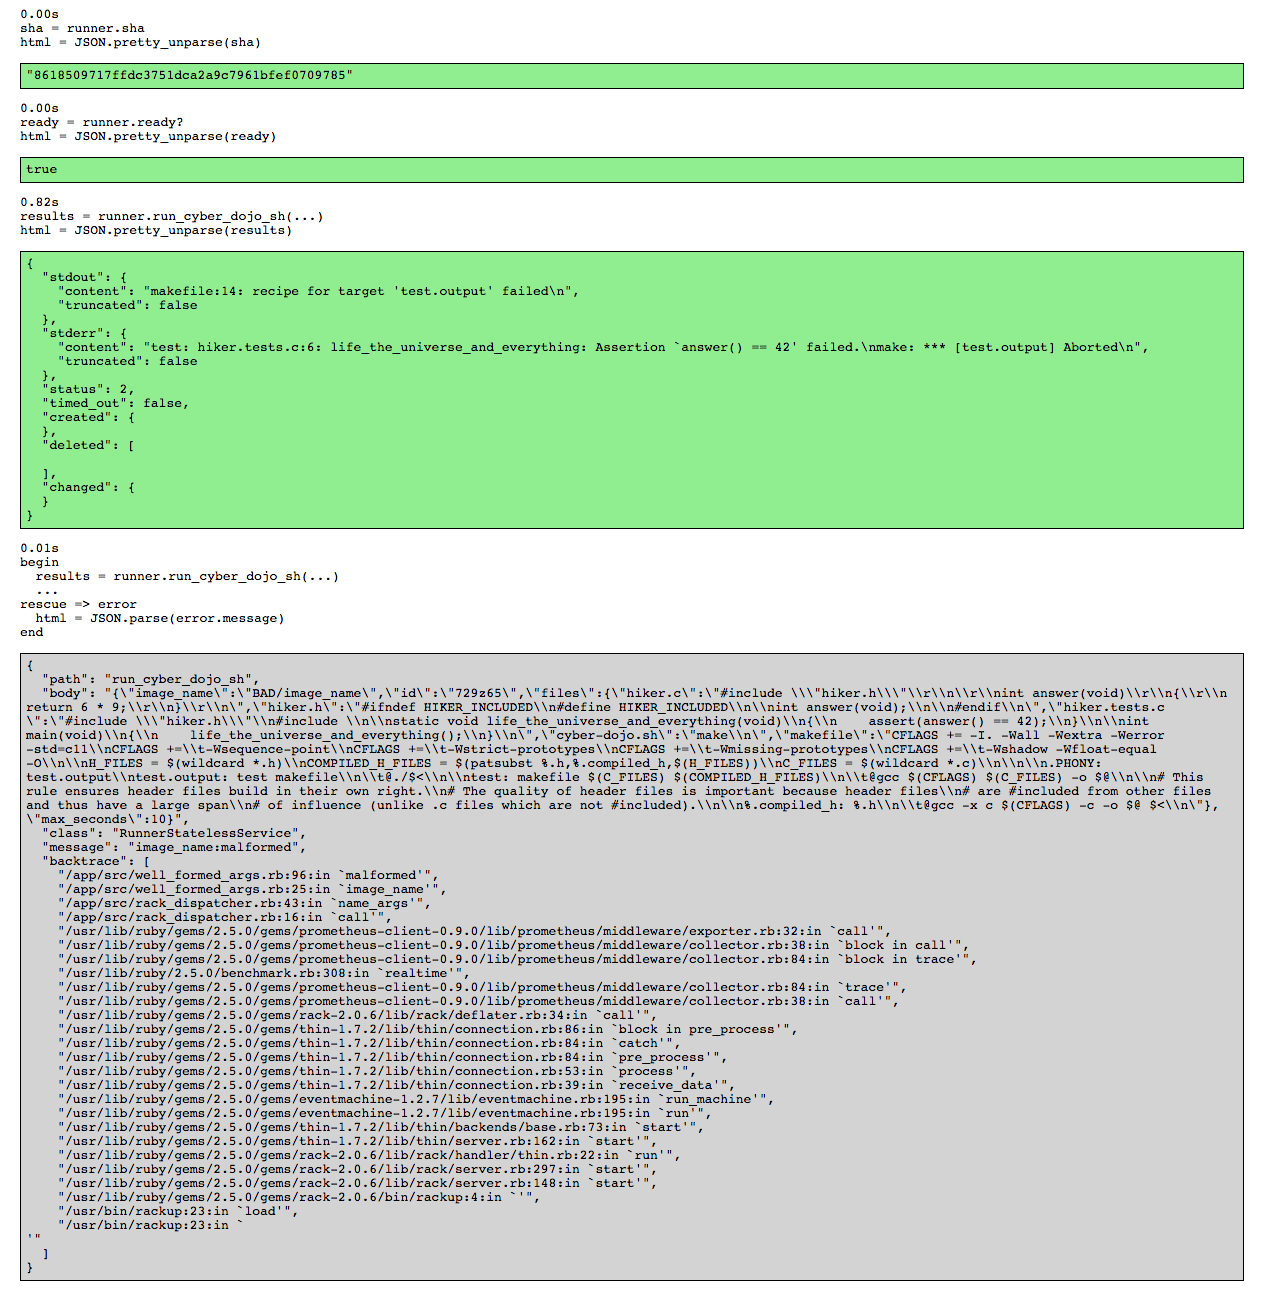
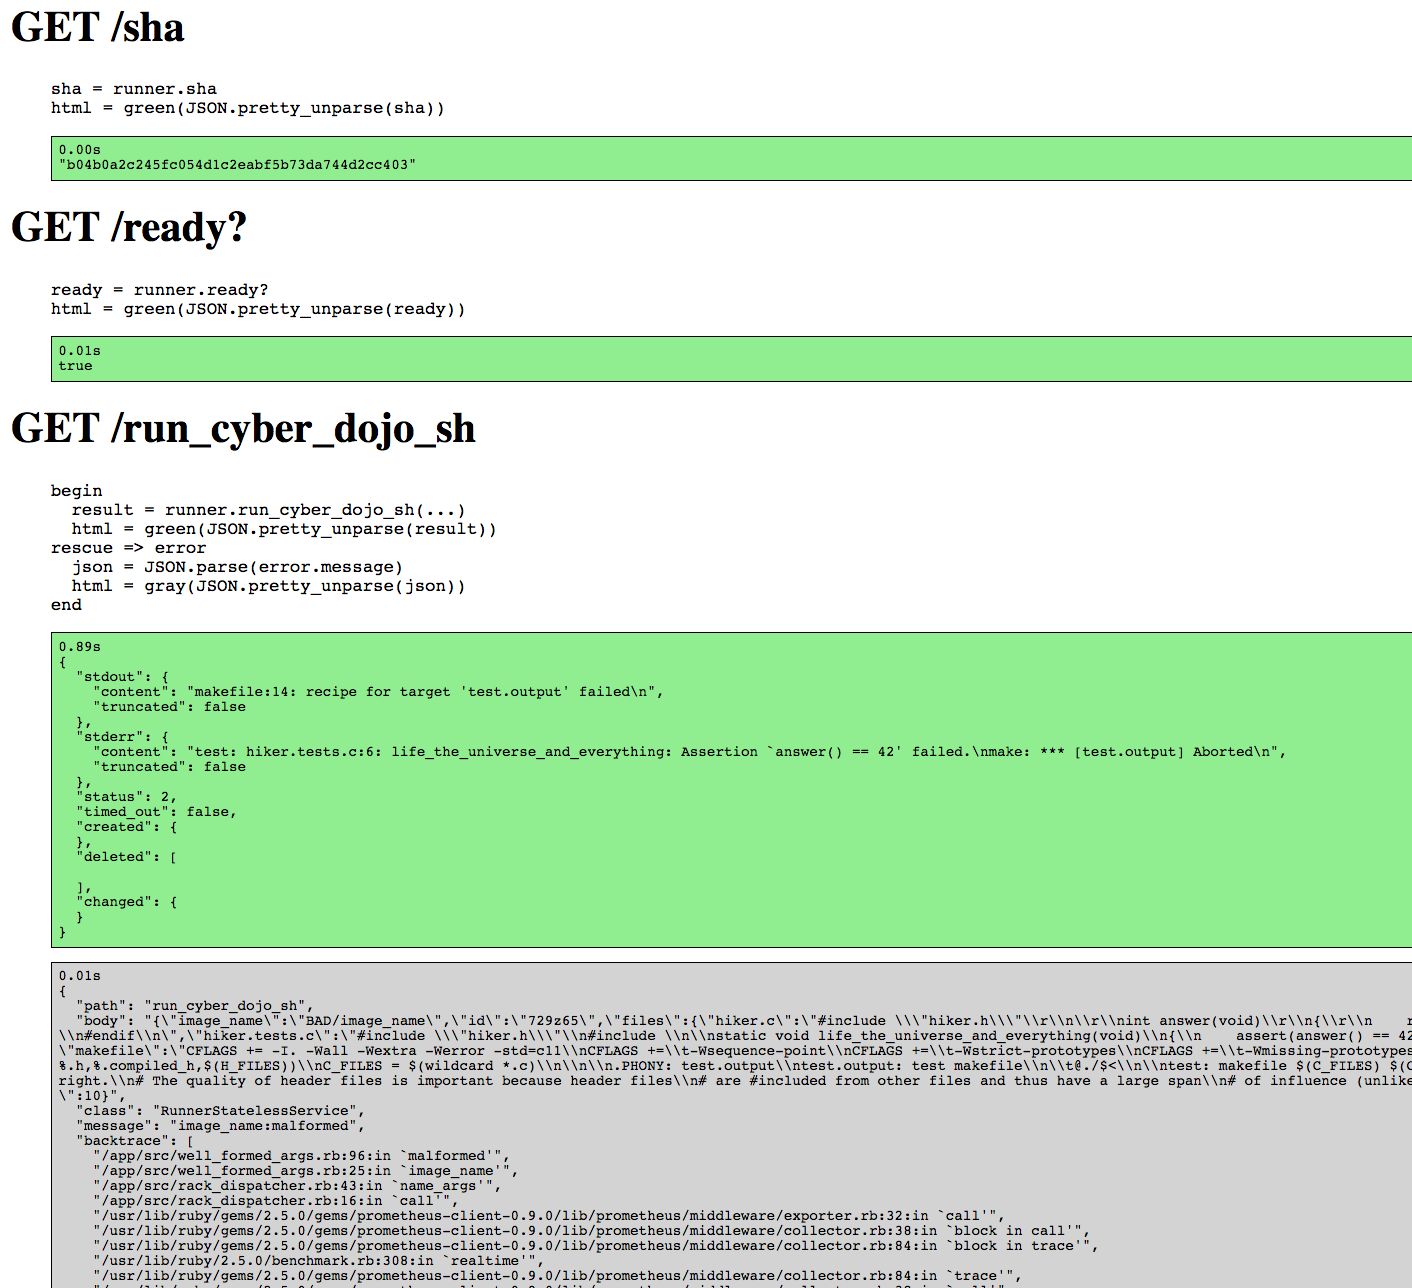
[ci skip] demo refactoring

diff --git a/test_client/src/demo.rb b/test_client/src/demo.rb
@@ -12,10 +12,13 @@ class Demo
 
   def inner_call
     @html = ''
+    @html += '<h1>GET /sha</h1>'
     @html += pre(sha_snippet)
     sha
+    @html += '<h1>GET /ready?</h1>'
     @html += pre(ready_snippet)
     ready?
+    @html += '<h1>GET /run_cyber_dojo_sh</h1>'    
     @html += pre(run_cyber_dojo_sh_snippet)
     @image_name = 'cyberdojofoundation/gcc_assert'
     @id = '729z65'
